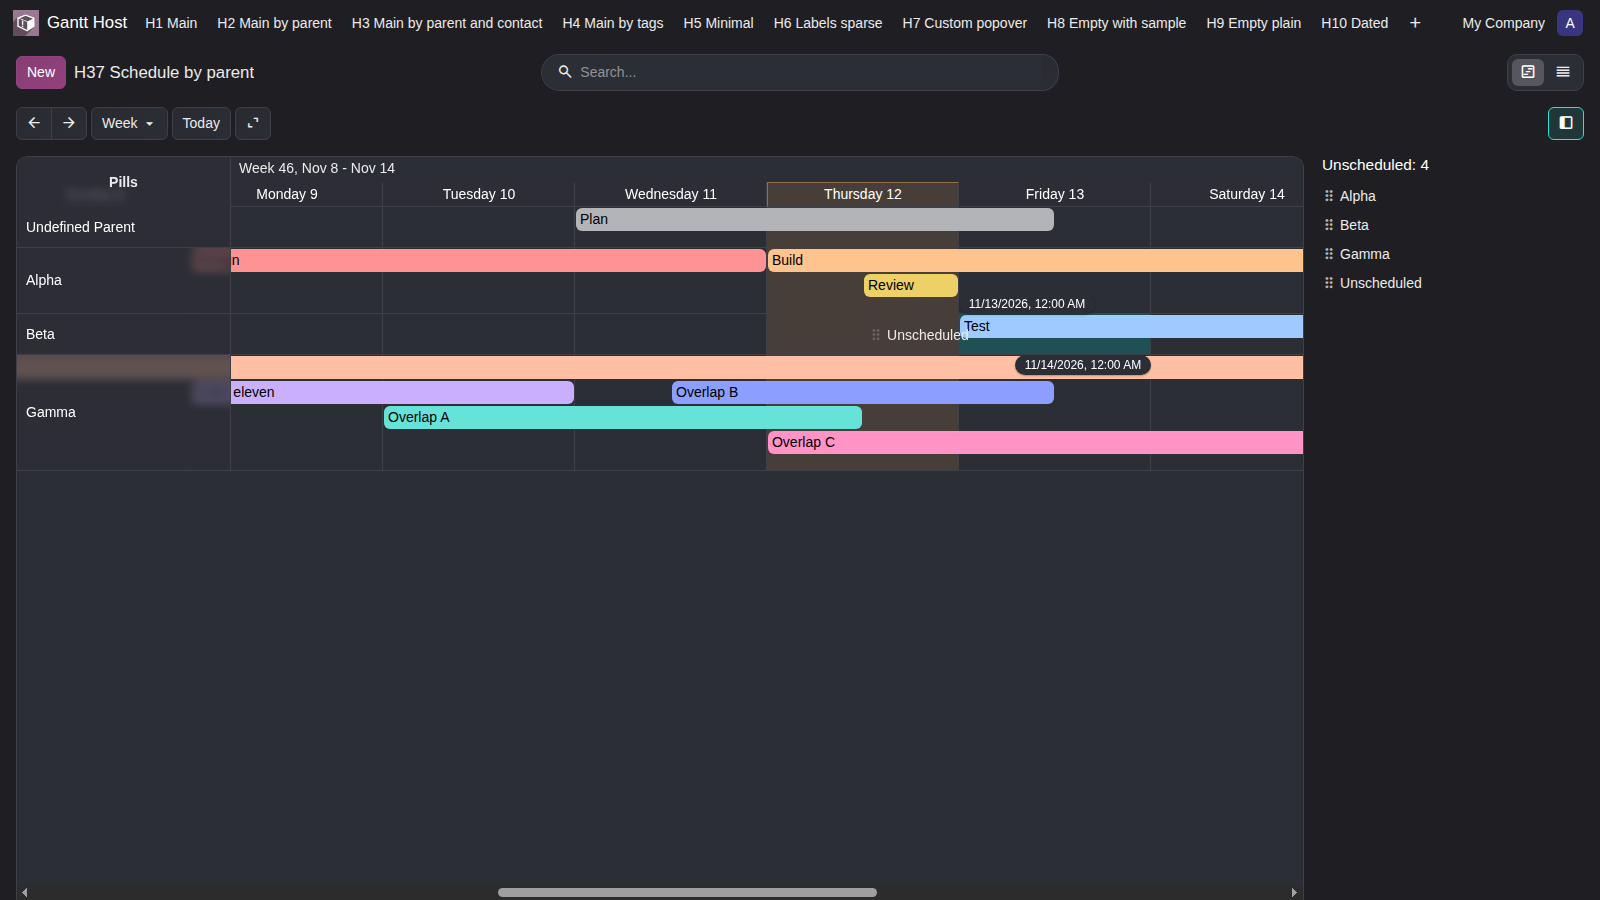
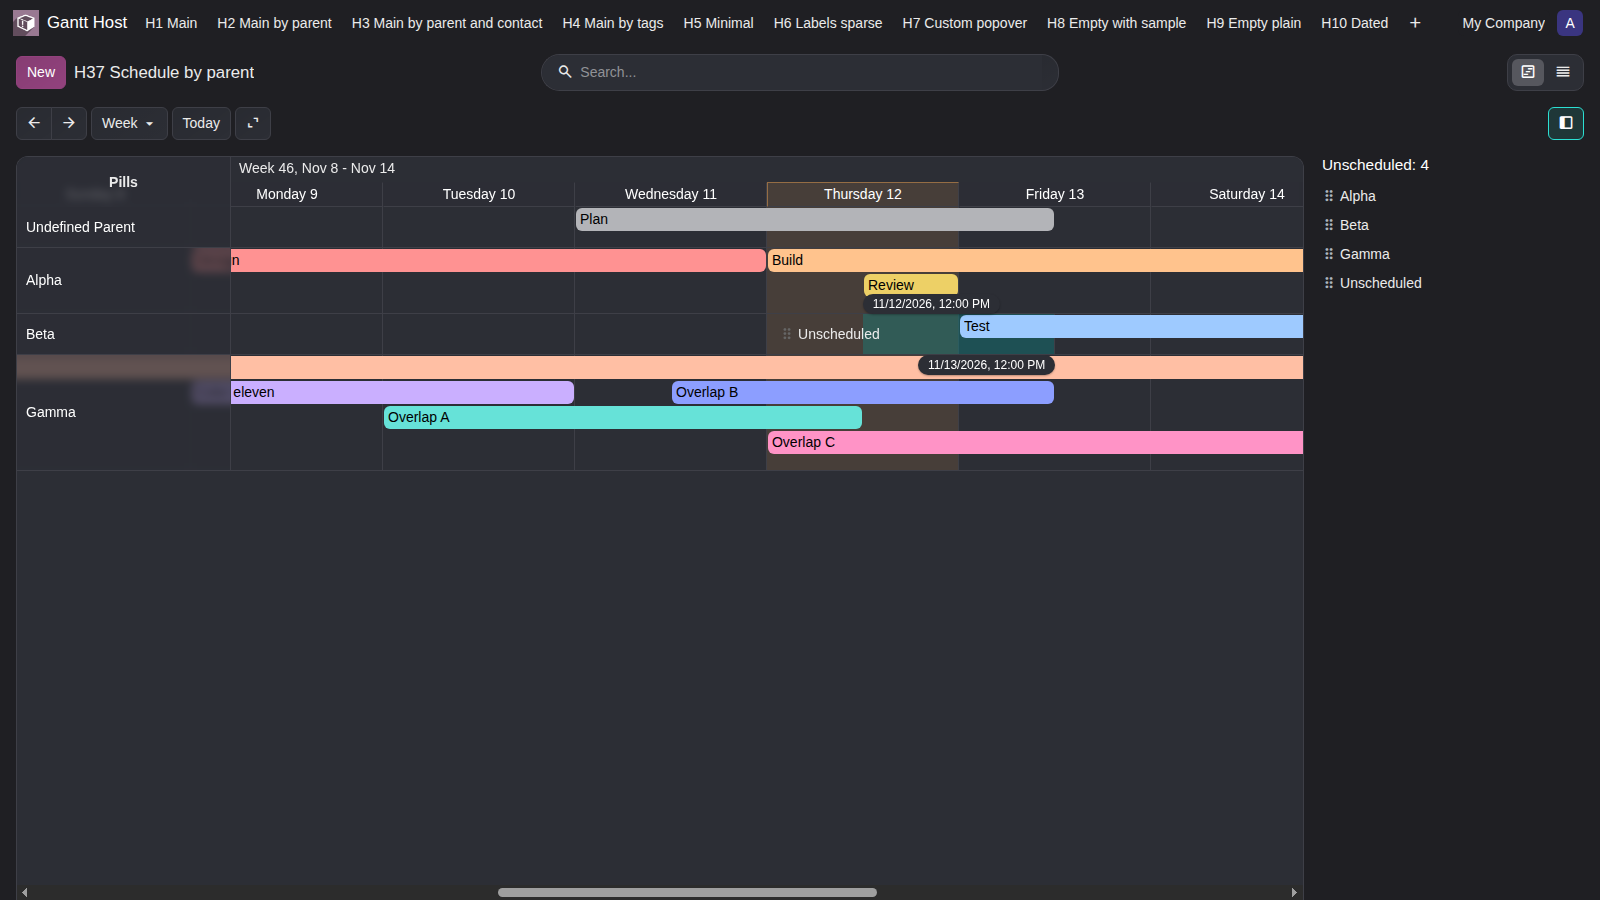
docs(gantt_view): the panel drag screens drop on the second half of Thursday 12 in the Beta row
The point is computed from the rendered cells, so the target runs from Thursday 12, 12:00 to Friday 13, 12:00 as in the spec's screens.

Claude-Session: https://claude.ai/code/session_012p6u7A29udU3kx4jyLp3YU

Changed region(s): [[0.5, 0.3111, 0.7188, 0.4356]]

diff --git a/addons/test_web_gantt/tests/test_multi_screens.py b/addons/test_web_gantt/tests/test_multi_screens.py
@@ -198,10 +198,15 @@ class TimelineMultiScreens(TimelineProbeCase):
             self.mouse('mouseMoved', 1313, 520)
             self.settle(500)
             shot('64-panel-handle')
-            self.hold_line()
+            # the second half of Thursday 12 in the Beta row, from the rendered cells
+            day = self.geometry("document.querySelector('.o_tl_col.o_tl_is_today')")
+            beta = self.geometry(self.row('Beta'))
+            at = (day['geometry.x'] + day['geometry.width'] * .75,
+                  beta['geometry.y'] + beta['geometry.height'] / 2)
+            self.hold_line(to=at)
             self.wait("!!document.querySelector('.o_tl_panel_ghost')")
             shot('65-panel-dragging')
-            self.mouse('mouseReleased', 1000, 335, button='left', buttons=0, clickCount=1)
+            self.mouse('mouseReleased', at[0], at[1], button='left', buttons=0, clickCount=1)
             self.settle(800)
             self.wait("!!document.querySelector('.o_tl_pill')")
             self.pointer_away()
